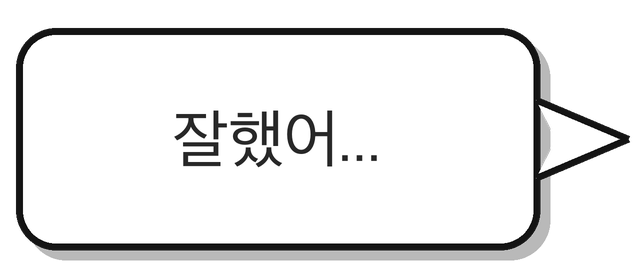
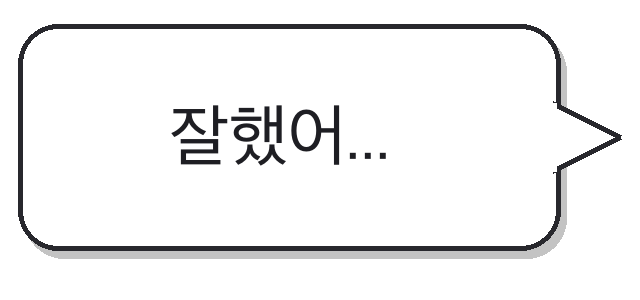
테니스공 이음선 + 대사 중 애벌레 정지 + 말풍선 기린 원본 스타일 일치
- 공 재질(연두/주황)에 테니스공 이음선 텍스처 적용 — 모드 공·바닥 공·
  애벌레 전부 일괄 반영(재질 공유)
- 컷씬 대사 동안 애벌레 꿈틀 정지(빛 전달·등반 때는 그대로 꿈틀)
- 말풍선을 기린 컷씬 원본 PNG에서 글자만 교체하는 방식으로 재생성 —
  테두리·꼬리·그림자·글씨체가 픽셀 단위로 동일

Changed region(s): [[0.0, 0.0571, 1.0, 0.9429], [0.25, 0.3429, 0.625, 0.6]]

diff --git a/Assets/Scripts/FrameHallClimb.cs b/Assets/Scripts/FrameHallClimb.cs
@@ -183,12 +183,12 @@ public class FrameHallClimb : MonoBehaviour
         chain = SpawnChain(path[0]);
         yield return MoveChain(path, emergeSeconds, camP, lookP);
 
-        // 2) 대사 2줄 — 기린 컷씬과 동일 형식의 이미지 말풍선
+        // 2) 대사 2줄 — 기린 컷씬과 동일 형식의 이미지 말풍선(말하는 동안 몸은 정지)
         bubbleAnchor = head + Vector3.up * 0.45f;
         currentBubble = bubble1;
-        yield return Wiggle(talkSeconds, camP, lookP);
+        yield return Hold(talkSeconds, camP, lookP);
         currentBubble = bubble2;
-        yield return Wiggle(talkSeconds, camP, lookP);
+        yield return Hold(talkSeconds, camP, lookP);
         currentBubble = null;
 
         // 3) CCTV 하이앵글로 전환(공간 전체) — 그 앵글에서 빛 전달 + 테이블 발광
